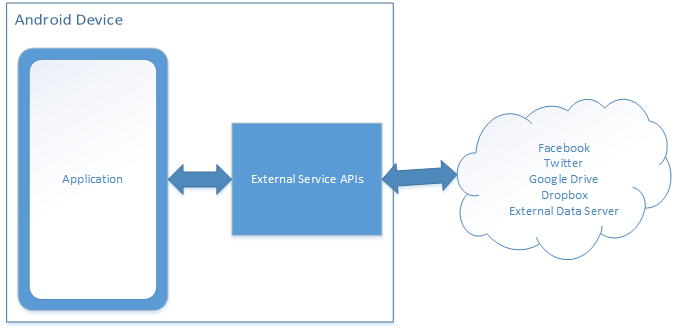
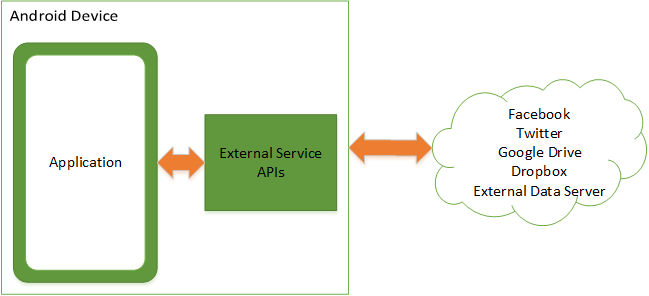
Updated architecture figures and revised the text

diff --git a/report/ch/projectPlan/sec/architecture.tex b/report/ch/projectPlan/sec/architecture.tex
@@ -1,6 +1,6 @@
 \section{Architecture}
 \subsection{Server}
-The server has two communications parts and one storage backend. The first communications part is responsible for talking the the aggregator placed in the users home, it will poll data from this device and place them in a database. The second part is responsible for talking with users Android devices and feeding them data from their own aggregator box and other usage data such as friends data and general statistics. The storage back end is responsible for keeping data updated and available.
+The backend server is divided into two parts with an underlying database connection. The first part is responsible for fetching data from the users home from the Home Data Aggregator and store this data in the database for future use. The second part is responsible for talking with the application on the Android device. It will fetch data about a users specific usage, users friends usage, or general statistics concerning power usage. The database connection layer will serve as an abstraction to the database itself and provide easy to use access to the data stored.
 
 \begin{figure}[H]
 \includegraphics[width=\textwidth]{ch/projectPlan/fig/server.png}
@@ -8,7 +8,7 @@ The server has two communications parts and one storage backend. The first commu
 \end{figure}
 
 \subsection{Android Device}
-The application running on the Android device will be responsible for handling connections to external services like Google Drive and Facebook as well as fetching data from the server.
+The application running on the Android device will be responsible for handling connections to external services like Google Drive and Facebook and combine them with data from the server in order to represent data to the user.
 
 \begin{figure}[H]
 \includegraphics[width=\textwidth]{ch/projectPlan/fig/androidDevice.png}
@@ -16,7 +16,7 @@ The application running on the Android device will be responsible for handling c
 \end{figure}
 
 \subsection{Home Data Aggregator}
-This device will collect data from sources in the users home. The reason for this external box as opposed to using the users phone to collect data, is with this solution the team can fetch data at regular intervals throughout the whole day with no need for the users to be home. The device will pass data along to the external server at request from the server.
+This device will collect data from sources in the users home. The reason for this external box as opposed to using the users phone to collect data, is that with this solution the system can fetch data at regular intervals throughout the whole day. So there is no need to the user to be home in order to collect usage data. The device will pass data along to the external server at request from the server.
 
 \begin{figure}[H]
 \includegraphics[width=\textwidth]{ch/projectPlan/fig/home.png}
